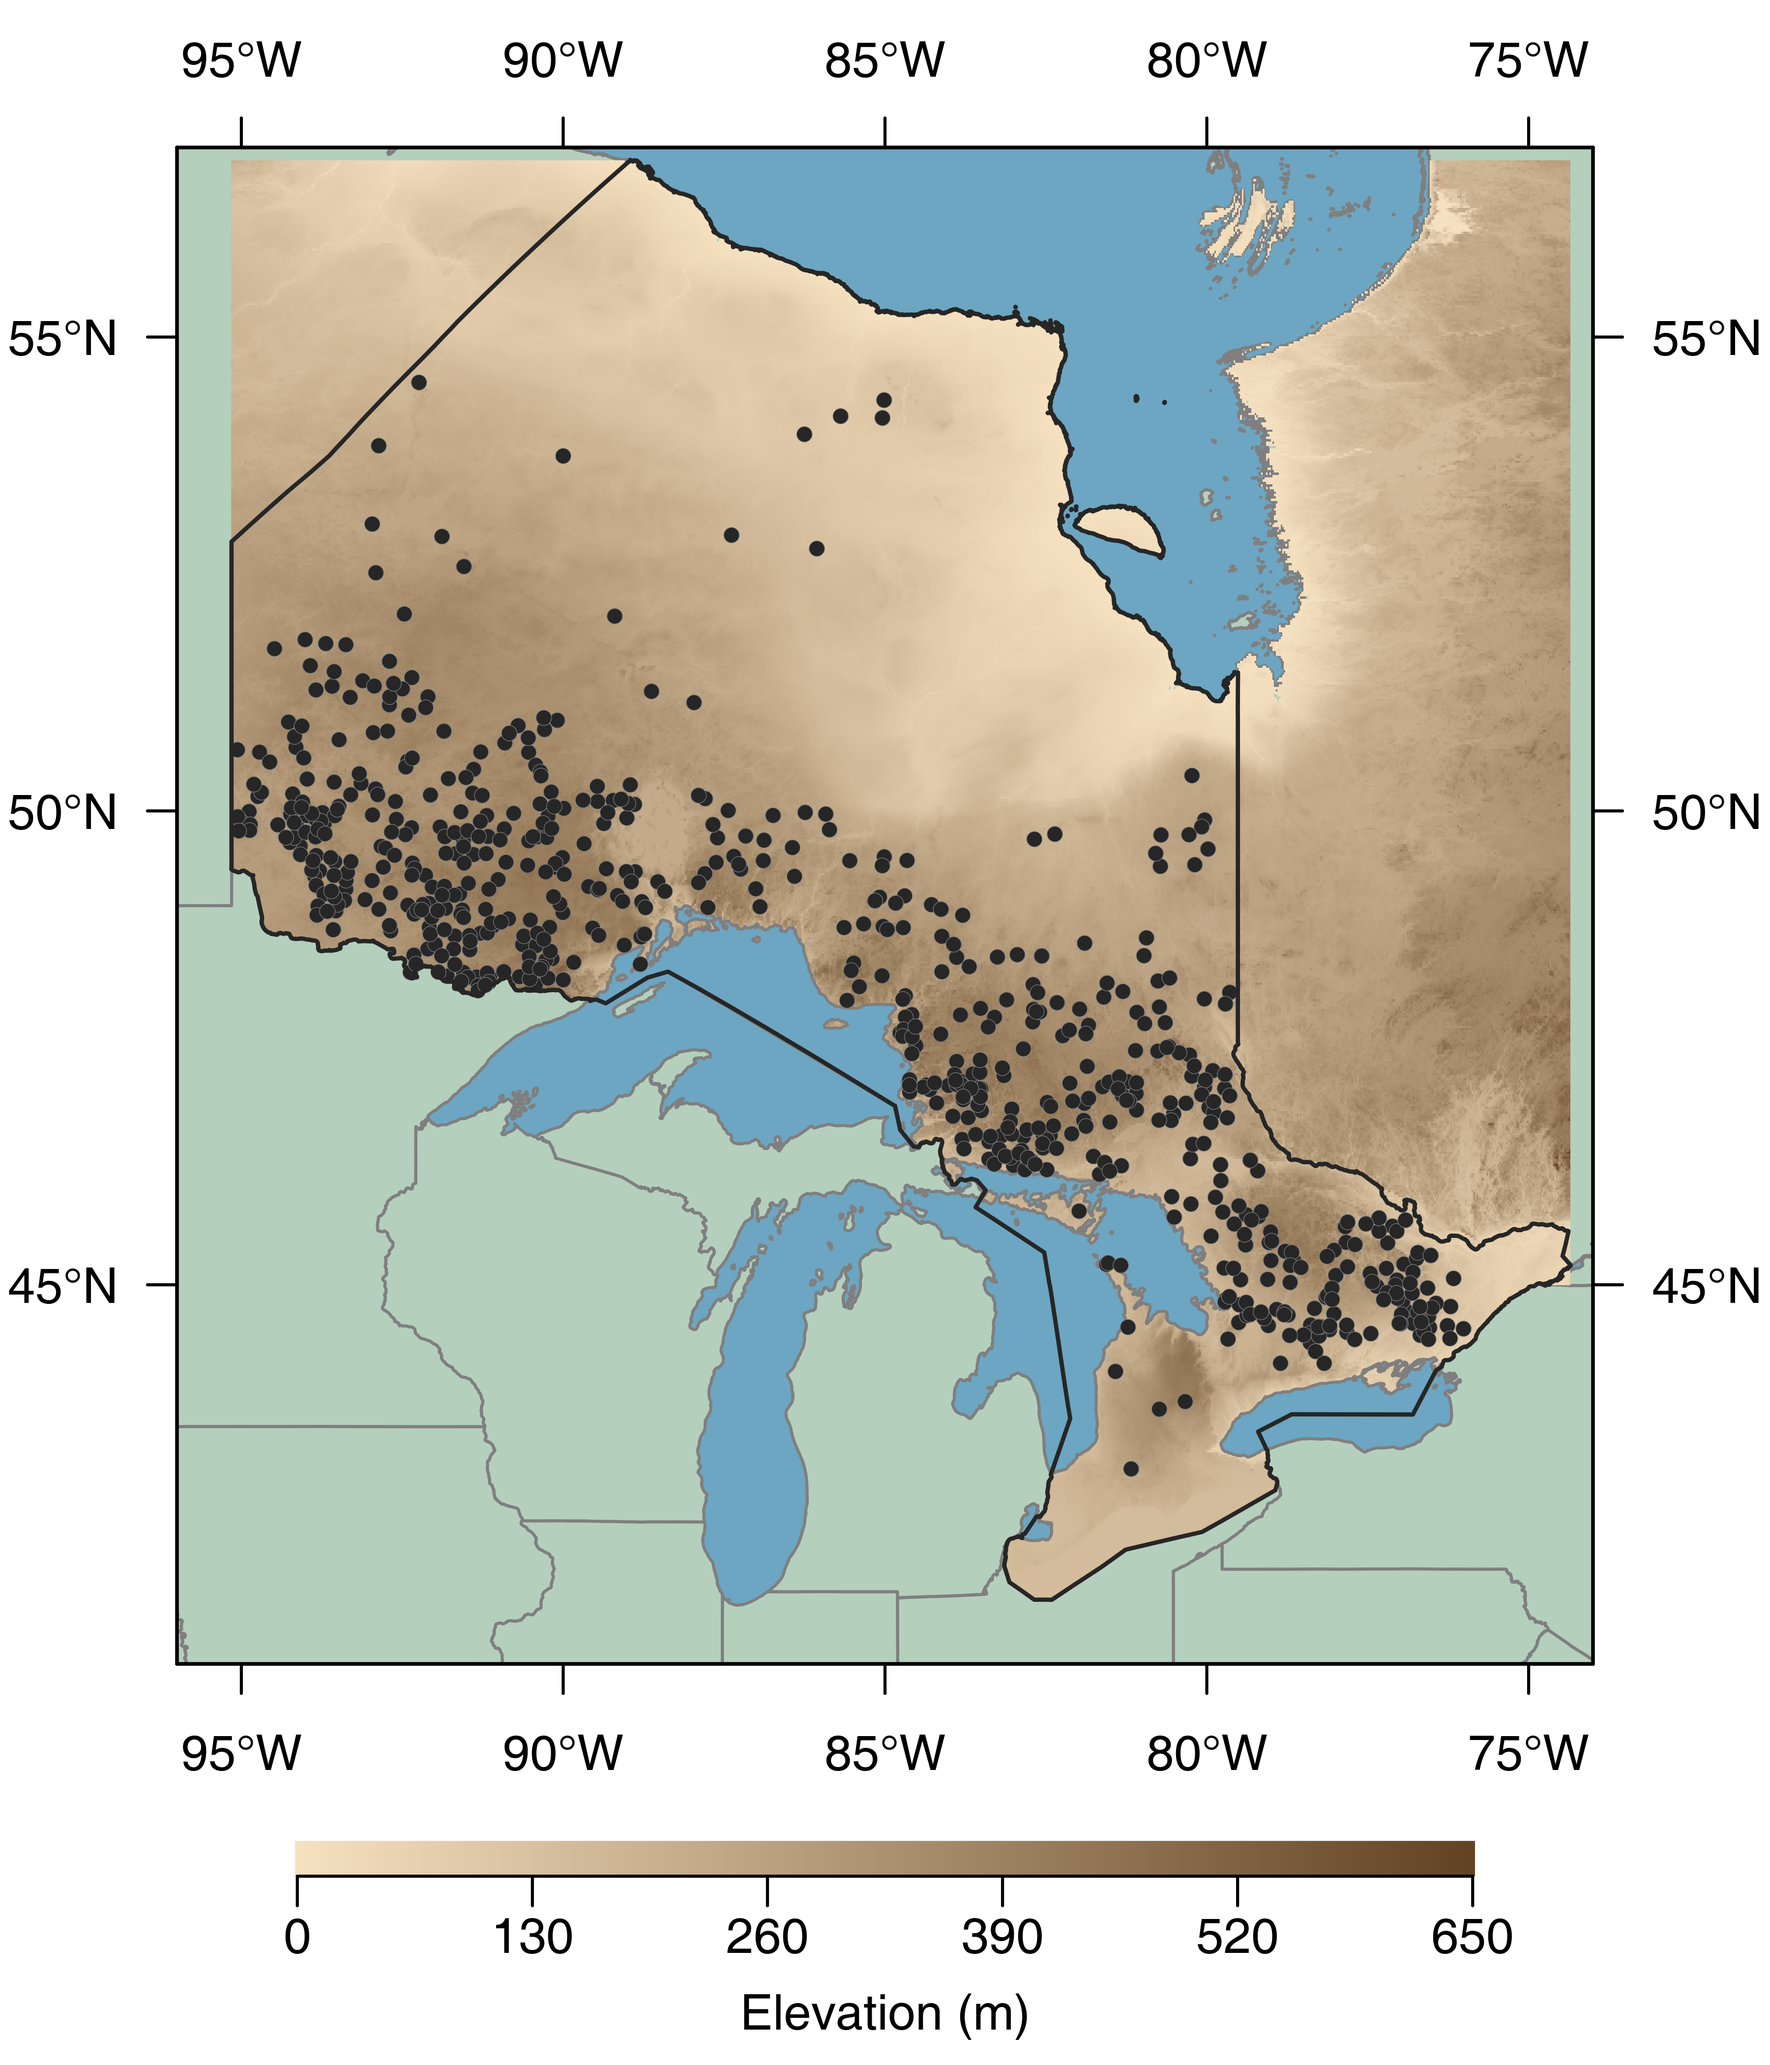
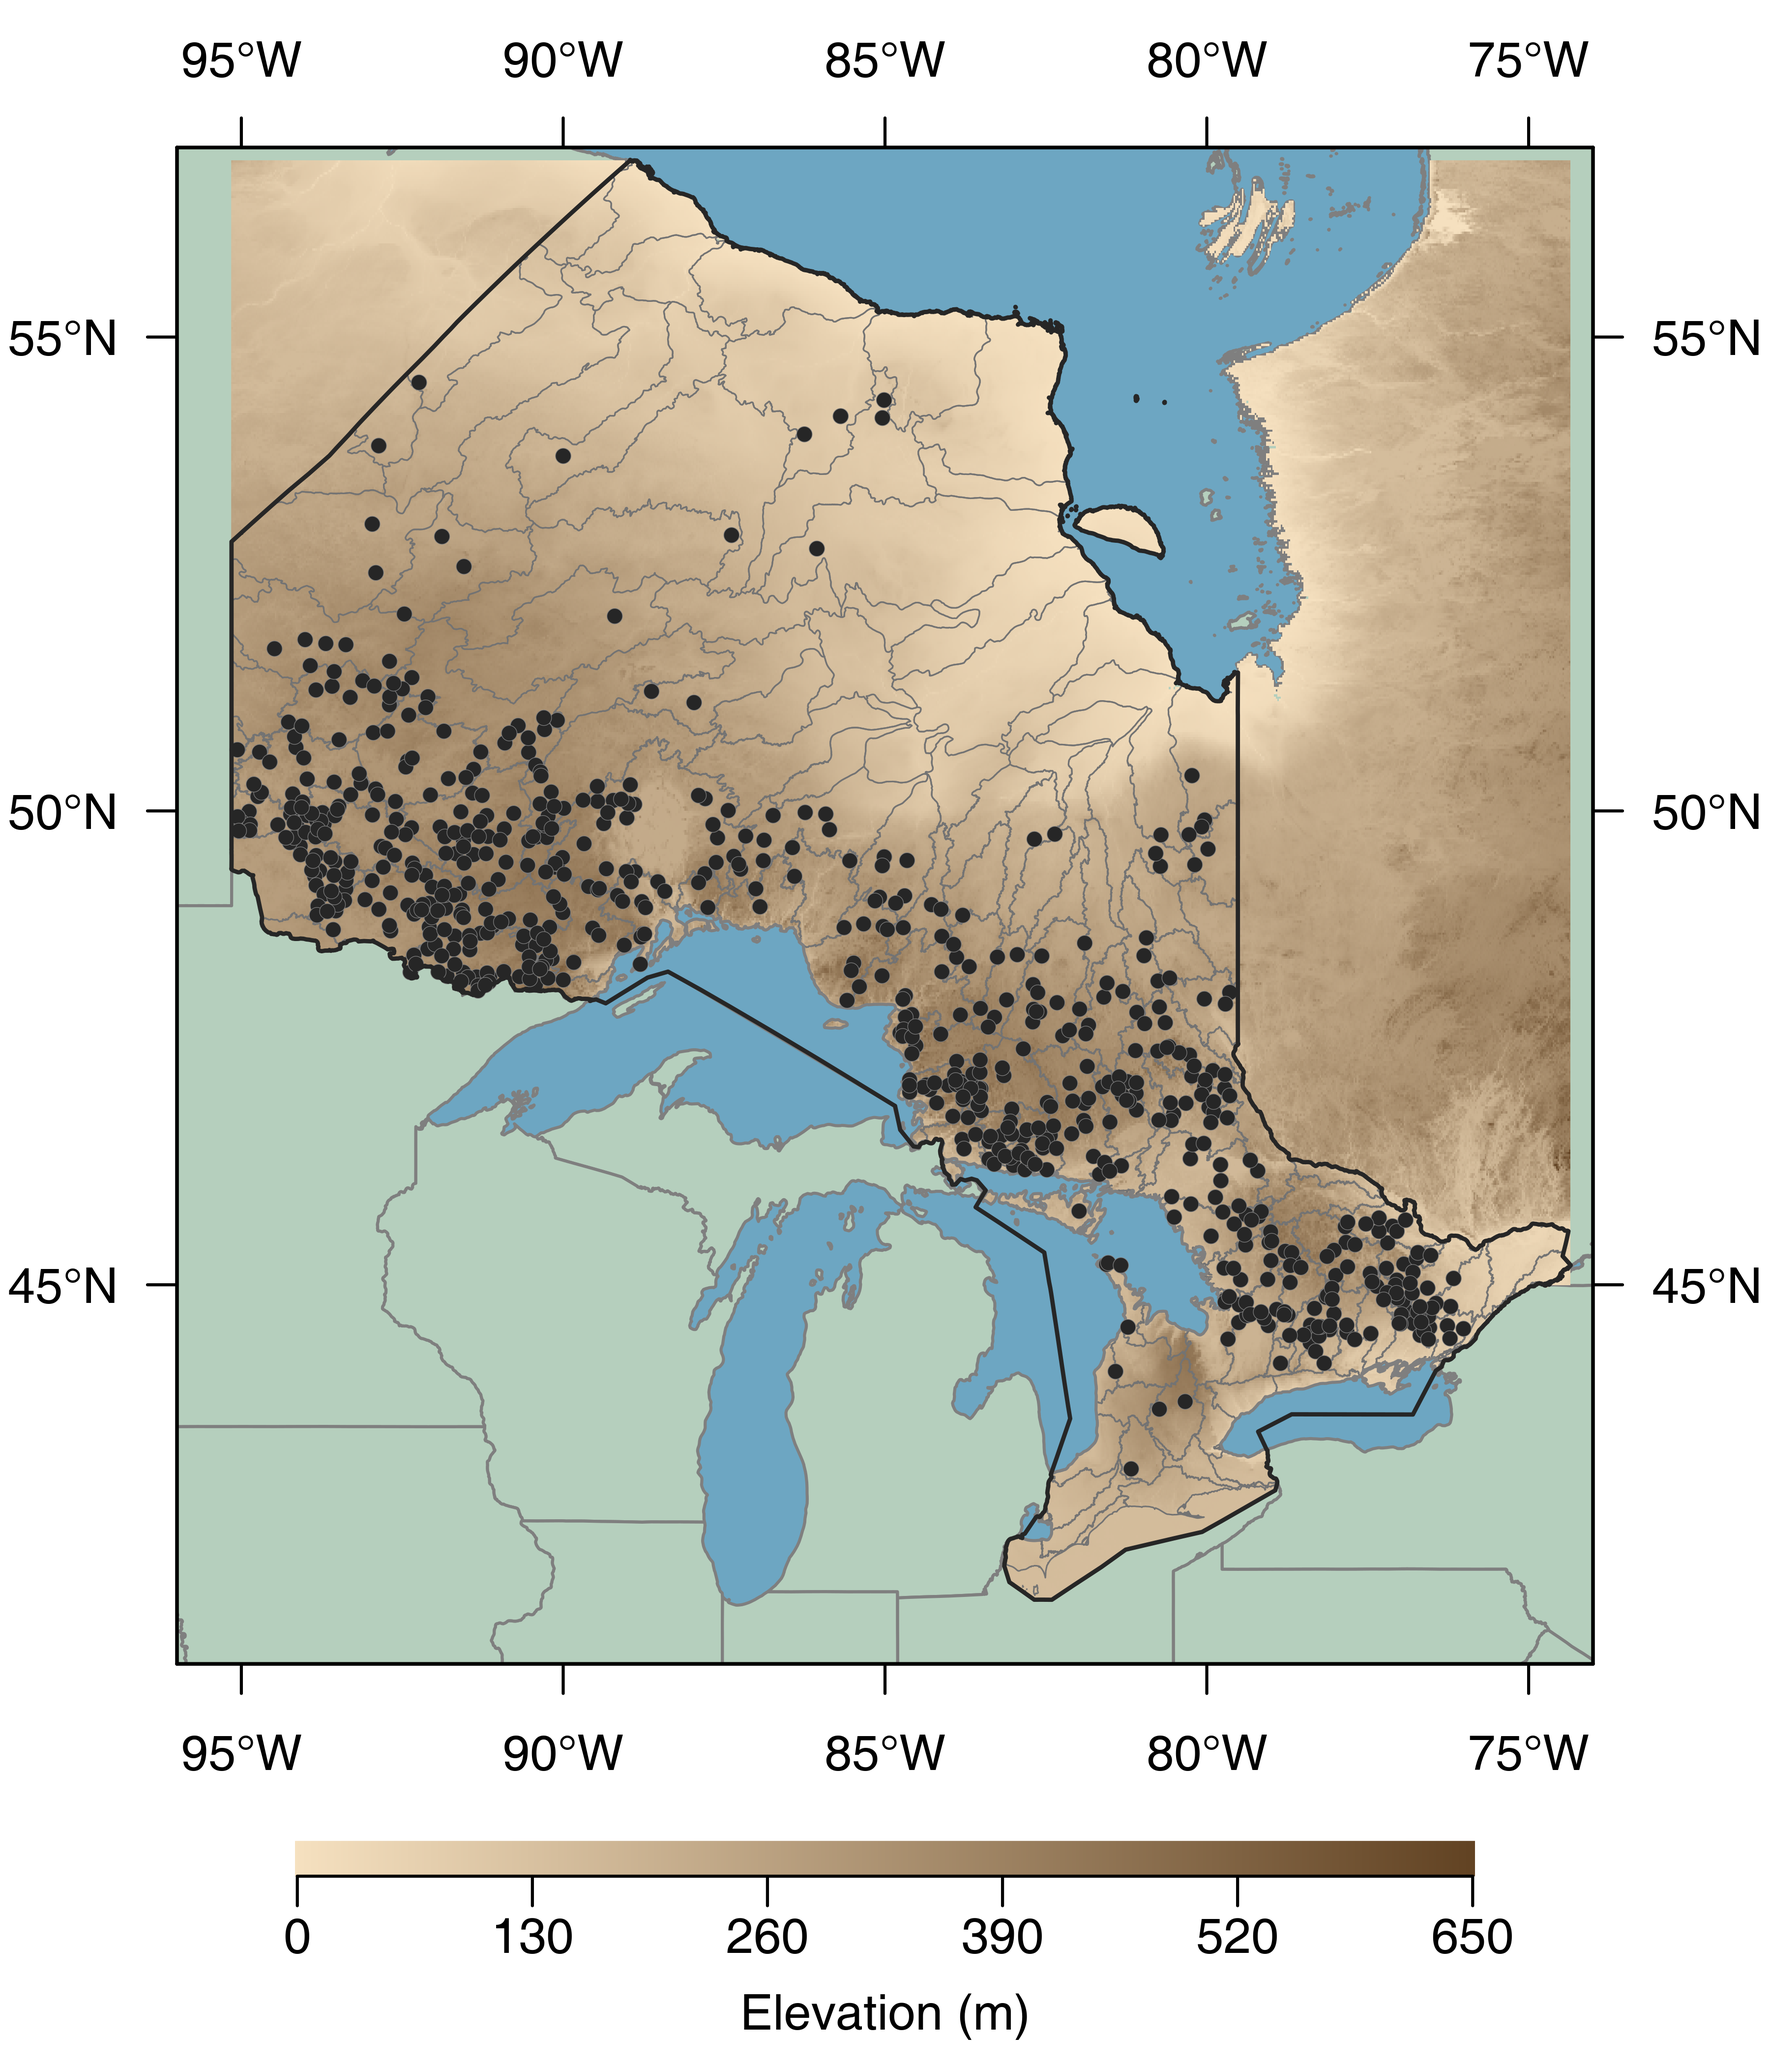
add tertionary food webs

diff --git a/README.md b/README.md
@@ -24,6 +24,21 @@ source("getData.R")
 
 - Great lake shapefiles are available at: https://www.sciencebase.gov/catalog/item/530f8a0ee4b0e7e46bd300dd
 
+- tertiary watersheds: https://www.ontario.ca/data/watershed-tertiary
+
+
+## Maps
+
+### Basic map
+
+![](fig/basic.png)
+
+### Custom map
+
+![](fig/custom.png)
+
+
+
 
 ## References
 
